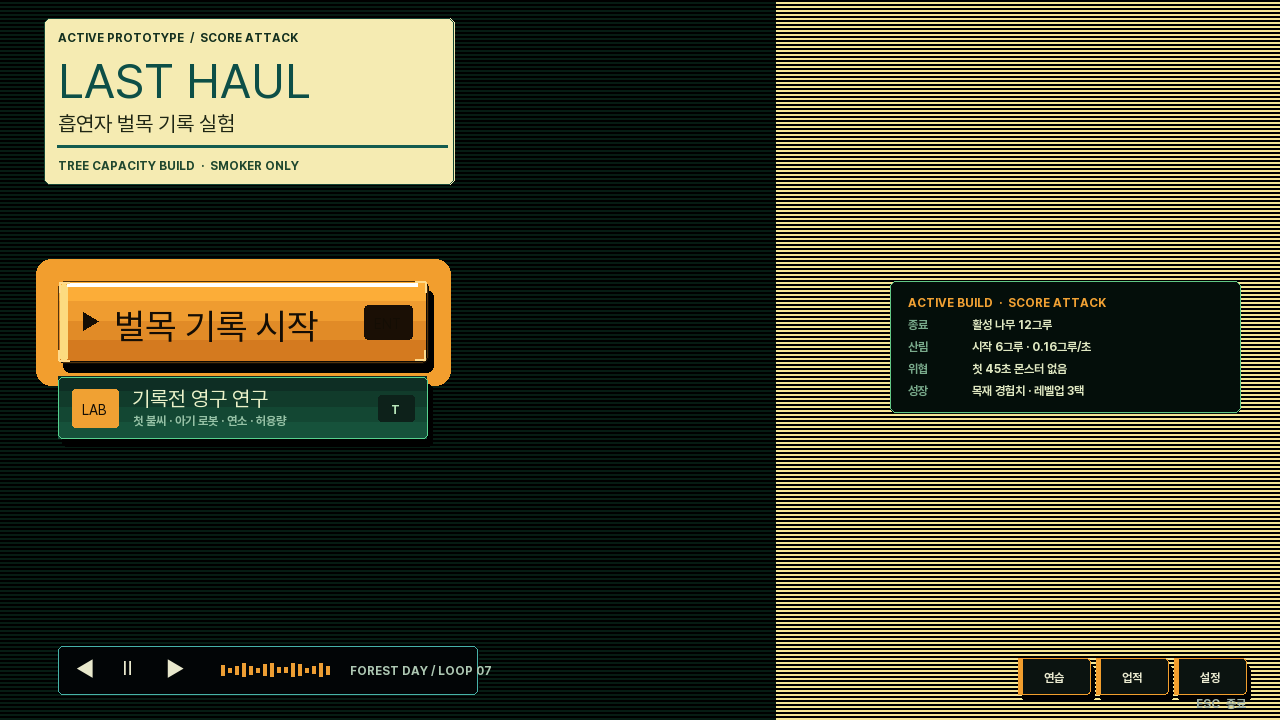
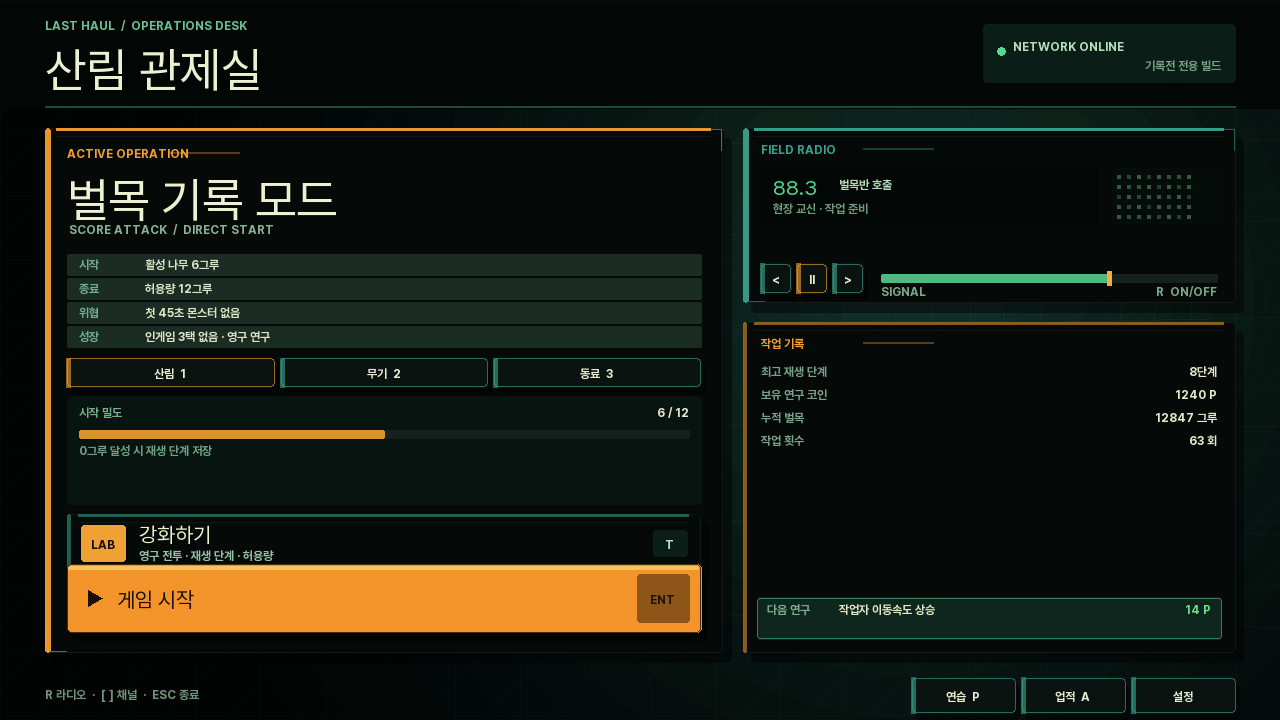
feat: 로비를 반응형 관제 UI로 개편

diff --git a/scripts/render_score_attack_lobby.py b/scripts/render_score_attack_lobby.py
@@ -6,7 +6,9 @@ from render_clearcut_synergy_ui import render_ui
 
 ROOT=Path(__file__).resolve().parents[1]
 OUT=ROOT/'docs/previews'
-run(ROOT/'scripts/capture_score_attack_lobby.lua')
-image=render_ui(OUT/'score-attack-lobby-draws.json',(1280,720))
-image.save(OUT/'score-attack-lobby-v1.png')
-print('SCORE_ATTACK_LOBBY_RENDER_OK 1280x720 window=none')
+for width,height in ((1280,720),(960,540)):
+    run(ROOT/'scripts/capture_score_attack_lobby.lua',f'CAPTURE_W={width};CAPTURE_H={height}')
+    suffix='' if width==1280 else f'-{width}'
+    image=render_ui(OUT/f'score-attack-lobby-draws{suffix}.json',(width,height))
+    image.save(OUT/f'score-attack-lobby-v1{suffix}.png')
+    print(f'SCORE_ATTACK_LOBBY_RENDER_OK {width}x{height} window=none')

diff --git a/docs/FRONTEND_UI_REDESIGN.md b/docs/FRONTEND_UI_REDESIGN.md
@@ -25,10 +25,10 @@
 4. 선택 항목은 밝기 변화만 주지 않는다. 3~5px 상태 레일, 테두리, 텍스트 대비가 함께 바뀐다.
 5. 버튼은 hover 시 3px 상승하고 외곽 대비가 증가한다. 키보드 입력 표시는 별도 키캡으로 둔다.
 6. 1280×720을 주 화면으로 사용하되 960×540에서도 정보가 겹치거나 화면 밖으로 잘리지 않아야 한다.
-7. 배경은 실제 게임 아트 또는 생태 구역 프리뷰를 사용하고, 어두운 워시·격자·비네트로 정보 가독성을 확보한다.
+7. 화면 역할에 따라 실제 게임 아트 또는 반응형 관제 UI를 사용한다. 현재 활성 로비는 고정 배경 이미지 대신 격자·신호 파동이 반응하는 관제 작업면을 쓴다.
 8. 메뉴 문구는 기능·대상·수치만 짧게 말한다. 분위기를 만들기 위한 명령문, 광고 문구, 과장된 세계관 설명을 쓰지 않는다. `온대림 1구역`, `할당량 60그루`, `작업 준비`처럼 구체적으로 쓴다.
 
-로비 배경은 `assets/lobby-forest-field-hq-pixel-v2.png`를 사용한다. 1672×941 고밀도 픽셀아트이며 숲속 컨테이너 사무소, 목재 파쇄기, 적재 통나무, 연료통, 진흙 작업로를 담는다. 왼쪽은 메뉴 가독성을 위해 어둡고 조용하게 유지한다. 기존 미래형 원형 기지 이미지는 로비 기준으로 사용하지 않는다.
+현재 활성 로비는 배경 그림 한 장에 메뉴를 얹지 않는다. 화면 전체를 반응형 산림 관제 데스크로 구성하고, 작업 규칙·산림/무기/동료 진단·기록·다음 연구를 실제 저장 데이터와 함께 배치한다. 현장 라디오는 이전/재생·정지/다음/신호 조절이 가능한 위젯이며 `R`, `[`, `]` 단축키를 지원한다. 보존된 캠페인용 배경 자산은 삭제하지 않는다.
 
 ## 화면 흐름
 
@@ -53,7 +53,7 @@
 
 ## 검수 캡처
 
-- 현재 활성 로비: `docs/previews/score-attack-lobby-v1.png`
+- 현재 활성 로비: `docs/previews/score-attack-lobby-v1.png`, `docs/previews/score-attack-lobby-v1-960.png`
 - 현재 활성 영구 연구: `docs/previews/score-trait-board-v1.png`
 - `docs/previews/frontend-v2-lobby.png`
 - `docs/previews/frontend-v2-operator.png`
